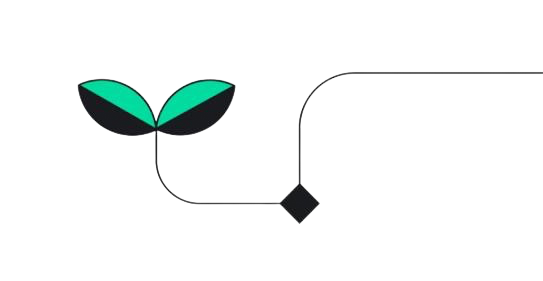
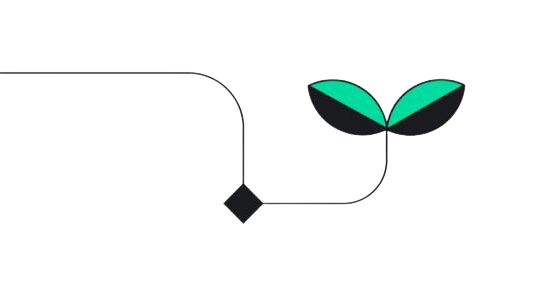
modified branch position

Changed region(s): [[0.2947, 0.2562, 1.0, 0.7972], [0.0, 0.2562, 0.442, 0.6263]]

diff --git a/iwd-app/src/components/organizers-section/organizers.jsx b/iwd-app/src/components/organizers-section/organizers.jsx
@@ -25,11 +25,11 @@ function Organizers() {
         ))}
       </div>
       <img
-        class="absolute bottom-0 right-0 sm:top-0 w-[400px] lg:w-[360px]"
+        class="absolute bottom-0 right-0 sm:top-0 sm:left-0 w-[400px] lg:w-[360px]"
         src={branch1}
       ></img>
       <img
-        class="absolute invisible lg:visible left-0 bottom-0 h-[300px]"
+        class="absolute invisible lg:visible right-0 bottom-0 h-[300px]"
         src={bridge}
       ></img>
     </div>

diff --git a/iwd-app/public/styles.css b/iwd-app/public/styles.css
@@ -934,6 +934,10 @@ code {
     top: 0.25rem;
   }
 
+  .sm\:left-0 {
+    left: 0px;
+  }
+
   .sm\:m-8 {
     margin: 2rem;
   }
